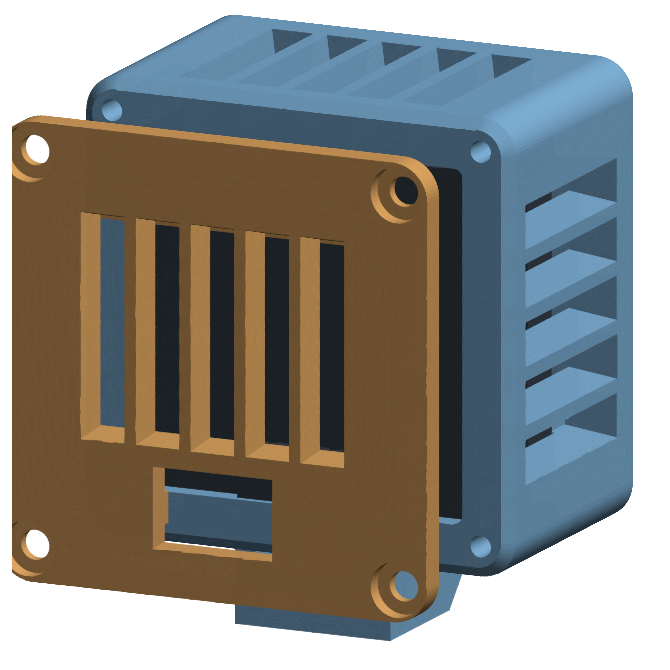
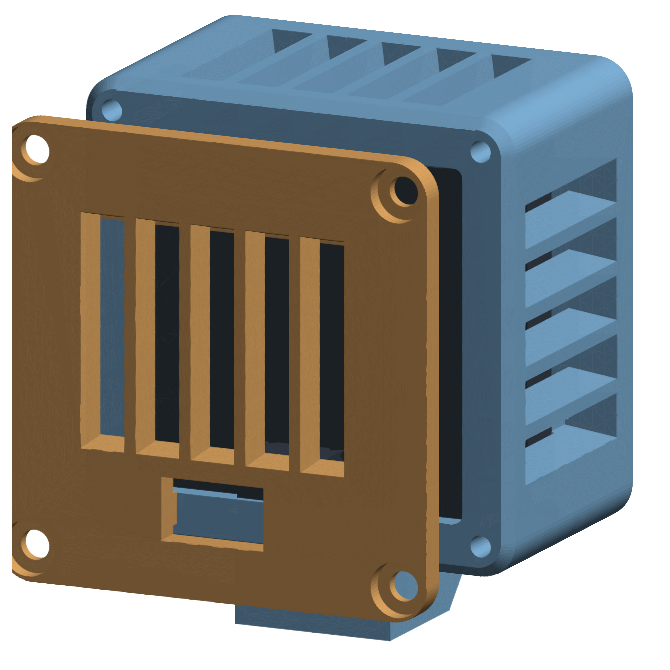
fix: aktualisiere Plug-Abmessungen und aktualisiere STL- und Bilddateien

Changed region(s): [[0.1194, 0.6269, 0.5373, 0.8358]]

diff --git a/hardware/case_elp48mp.py b/hardware/case_elp48mp.py
@@ -63,8 +63,8 @@ P = dict(
     # -- 4-pin plug, bottom centre, pointing backwards -------------------
     plug_w=10.0,         # plug housing width  (measured)
     plug_h=5.0,          # plug housing height (measured)
-    plug_clear=2.0,      # clearance per side around it
-    plug_lift=1.0,       # bottom of plug above the board's bottom edge
+    plug_clear=1.0,      # clearance per side -> a 12 x 7 window whose lower
+    plug_lift=1.0,       #    edge sits flush with the board's bottom edge
 
     # -- the shell -------------------------------------------------------
     outer=50.0,          # outer edge length
